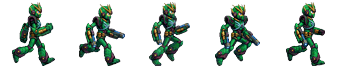
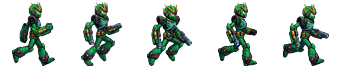
fix(kawagael): corrige ordem dos frames da corrida (f0,f2,f3,f4,f1)
FRAME_ORDER explícito no build script — ordem de geração != ordem de animação

diff --git a/tools/build_kawagael_run.py b/tools/build_kawagael_run.py
@@ -19,6 +19,11 @@ TOP_PAD = 2      # respiro no topo
 RAW_DIR = Path("characters/ranged/kawagael/_raw")
 OUT = Path("characters/ranged/kawagael/KawagaelRun.png")
 
+# Ordem de exibição no ciclo (nomes das subpastas em _raw). A sequência de
+# GERAÇÃO no PixelLab (f0..f4) não é a ordem boa de animação — esta é a corrigida.
+# Frames presentes que não estiverem aqui entram ao final.
+FRAME_ORDER = ["f0", "f2", "f3", "f4", "f1"]
+
 
 def trim(img: Image.Image) -> Image.Image:
     img = img.convert("RGBA")
@@ -45,12 +50,22 @@ def build_sheet(images: list[Image.Image]) -> Image.Image:
     return sheet
 
 
+def _ordered_paths() -> list[Path]:
+    raw = {p.parent.name: p for p in RAW_DIR.glob("f*/f*_east.png")}
+    ordered = [raw[name] for name in FRAME_ORDER if name in raw]
+    for name in sorted(raw):               # frames presentes fora de FRAME_ORDER → ao final
+        if name not in FRAME_ORDER:
+            ordered.append(raw[name])
+    return ordered
+
+
 def main() -> None:
-    paths = sorted(RAW_DIR.glob("f*/f*_east.png"))
+    paths = _ordered_paths()
     if len(paths) < 2:
         raise SystemExit(f"Preciso de >=2 PNGs east em {RAW_DIR}, achei {len(paths)}: {paths}")
     if len(paths) != 8:
-        print(f"AVISO: {len(paths)}/8 frames (placeholder). Frames: {[p.parent.name for p in paths]}")
+        print(f"AVISO: {len(paths)}/8 frames (placeholder).")
+    print(f"Ordem dos frames: {[p.parent.name for p in paths]}")
     images = [Image.open(p) for p in paths]
     sheet = build_sheet(images)
     OUT.parent.mkdir(parents=True, exist_ok=True)
